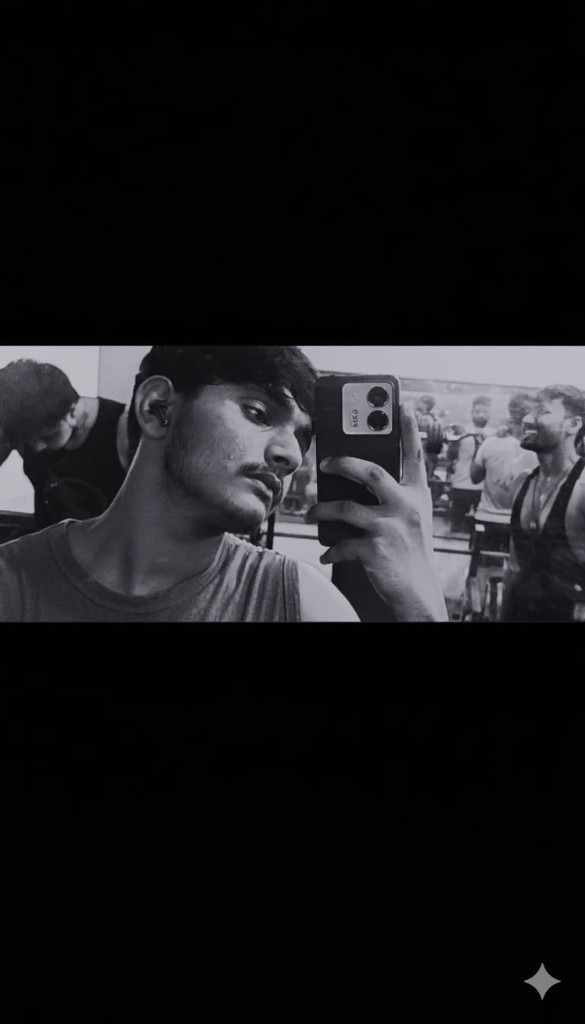
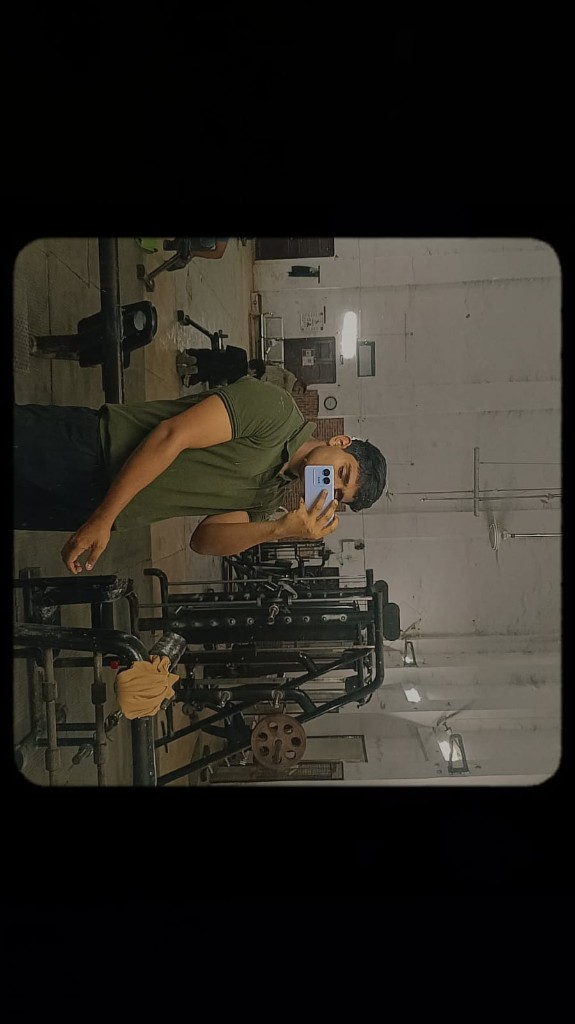
Add skills portrait and update hero polaroid photos

diff --git a/src/components/sections/Skills.jsx b/src/components/sections/Skills.jsx
@@ -1,11 +1,11 @@
 import { motion } from 'framer-motion';
 import FadeIn from '../animations/FadeIn';
-import { HERO_PORTRAIT_SRC } from '../../data/hero';
 import {
   skillsBranding,
   skillsHeadline,
   skillTabs,
   skillsFooter,
+  SKILLS_PORTRAIT_SRC,
 } from '../../data/skillsPage';
 import { personal } from '../../data/personal';
 
@@ -55,9 +55,9 @@ export default function Skills() {
           <div className="skills-portrait-wrap">
             <div className="skills-portrait-jagged">
               <img
-                src={HERO_PORTRAIT_SRC}
+                src={SKILLS_PORTRAIT_SRC}
                 alt={`${personal.name} — skills portrait`}
-                className="h-full w-full object-cover object-[50%_20%]"
+                className="h-full w-full object-cover object-center"
               />
             </div>
           </div>

diff --git a/src/data/hero.js b/src/data/hero.js
@@ -71,9 +71,16 @@ export const heroZine = {
   ],
   /** Polaroid slots — set `src` when you add images under public/images/hero/polaroids/ */
   polaroids: [
-    { id: 'p1', src: '/images/hero/polaroids/gym.png', caption: 'Gym', rotate: -5, fit: 'cover' },
+    {
+      id: 'p1',
+      src: '/images/hero/polaroids/gym.png',
+      caption: 'Gym',
+      rotate: -5,
+      fit: 'cover',
+      imageRotate: 90,
+    },
     { id: 'p2', src: '/images/hero/polaroids/bhu.png', caption: 'BHU', rotate: 3, fit: 'cover' },
-    { id: 'p3', src: '/images/hero/polaroids/photoshoot.png', caption: 'Photoshoot', rotate: -2, fit: 'contain' },
+    { id: 'p3', src: '/images/hero/polaroids/photoshoot.png', caption: 'Photoshoot', rotate: -2, fit: 'cover' },
   ],
   ctas: {
     primary: { label: 'View My Work', href: '#projects' },

diff --git a/src/components/sections/Hero.jsx b/src/components/sections/Hero.jsx
@@ -23,6 +23,11 @@ function PolaroidSlot({ polaroid }) {
             src={polaroid.src}
             alt={polaroid.caption || 'Portfolio moment'}
             className={`h-full w-full ${polaroid.fit === 'contain' ? 'object-contain bg-white' : 'object-cover'}`}
+            style={
+              polaroid.imageRotate
+                ? { transform: `rotate(${polaroid.imageRotate}deg) scale(1.15)` }
+                : undefined
+            }
           />
         ) : (
           <div className="flex h-full w-full flex-col items-center justify-center bg-[#e8e4dc] p-3 text-center">

diff --git a/src/data/skillsPage.js b/src/data/skillsPage.js
@@ -1,5 +1,8 @@
 import { personal } from './personal';
 
+/** Skills section portrait — public/images/skills/portrait.png */
+export const SKILLS_PORTRAIT_SRC = '/images/skills/portrait.png';
+
 /** Editorial skills section — branding, headline, bottom skill tabs */
 const nameParts = personal.name.split(' ');
 
